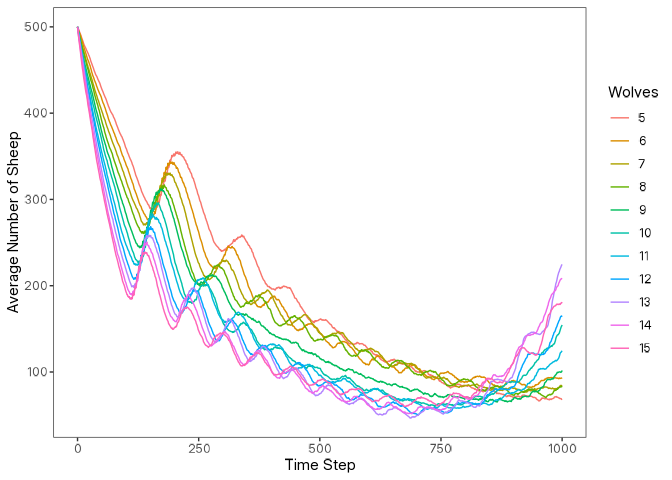
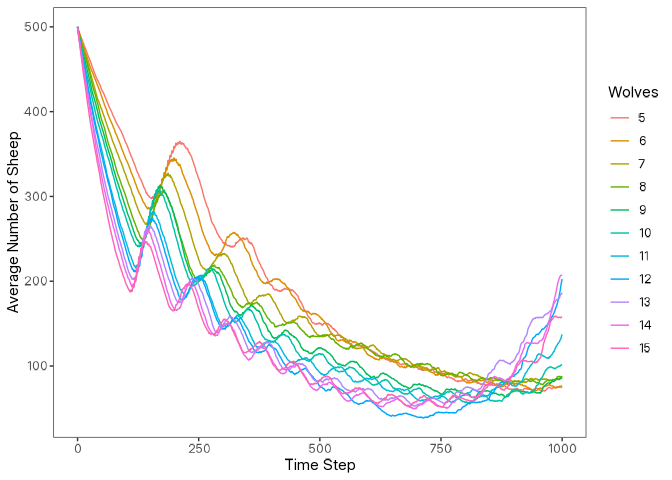
Add `rsvg` in `Suggests` for plotting agents in `ggplot2`

diff --git a/README.md b/README.md
@@ -13,6 +13,10 @@ developed.](https://www.repostatus.org/badges/latest/active.svg)](https://www.re
 [![](http://cranlogs.r-pkg.org/badges/grand-total/logolink)](https://cran.r-project.org/package=logolink)
 [![R build
 status](https://github.com/danielvartan/logolink/workflows/R-CMD-check.yaml/badge.svg)](https://github.com/danielvartan/logolink/actions)
+[![NetLogo Check
+Badge](https://github.com/danielvartan/logolink/workflows/NetLogo%20Check/badge.svg)](https://github.com/danielvartan/logolink/actions)
+[![FAIR checklist
+badge](https://img.shields.io/badge/fairsoftwarechecklist.net--00a7d9)](https://fairsoftwarechecklist.net/v0.2/?f=31&a=32113&i=32322&r=133)
 [![](https://codecov.io/gh/danielvartan/logolink/branch/main/graph/badge.svg)](https://app.codecov.io/gh/danielvartan/logolink)
 [![GNU GPLv3
 License](https://img.shields.io/badge/license-GPLv3-bd0000.svg)](https://www.gnu.org/licenses/gpl-3.0)
@@ -239,7 +243,7 @@ library(dplyr)
 results |> glimpse()
 #> List of 5
 #>  $ metadata   :List of 5
-#>   ..$ timestamp       : POSIXct[1:1], format: "2025-12-23 19:57:38"
+#>   ..$ timestamp       : POSIXct[1:1], format: "2025-12-23 20:15:54"
 #>   ..$ netlogo_version : chr "7.0.3"
 #>   ..$ model_file      : chr "Wolf Sheep Simple 5.nlogox"
 #>   ..$ experiment_name : chr "Wolf Sheep Simple Model Analysis"
@@ -255,7 +259,7 @@ results |> glimpse()
 #>   ..$ energy_gain_from_sheep: num [1:110110] 5 5 5 5 5 5 5 5 5 5 ...
 #>   ..$ step                  : num [1:110110] 0 1 2 3 4 5 6 7 8 9 ...
 #>   ..$ count_wolves          : num [1:110110] 5 5 5 5 5 5 5 5 5 5 ...
-#>   ..$ count_sheep           : num [1:110110] 500 500 500 498 498 497 497 496 495 494 ...
+#>   ..$ count_sheep           : num [1:110110] 500 497 496 495 493 492 490 488 487 487 ...
 #>  $ spreadsheet:List of 2
 #>   ..$ statistics: tibble [330 × 13] (S3: tbl_df/tbl/data.frame)
 #>   ..$ measures  : tibble [330,330 × 4] (S3: tbl_df/tbl/data.frame)
@@ -280,8 +284,8 @@ results |> glimpse()
 #>   ..$ step                  : num [1:11011] 0 1 2 3 4 5 6 7 8 9 ...
 #>   ..$ mean_count_wolves     : num [1:11011] 5 5 5 5 5 5 5 5 5 5 ...
 #>   ..$ std_count_wolves      : num [1:11011] 0 0 0 0 0 0 0 0 0 0 ...
-#>   ..$ mean_count_sheep      : num [1:11011] 500 498 498 496 494 ...
-#>   ..$ std_count_sheep       : num [1:11011] 0 0.831 1.432 1.446 1.625 ...
+#>   ..$ mean_count_sheep      : num [1:11011] 500 498 496 495 493 ...
+#>   ..$ std_count_sheep       : num [1:11011] 0 1.14 0.9 1.25 1.51 ...
 ```
 
 ### Analyzing the Data (Bonus Section)
